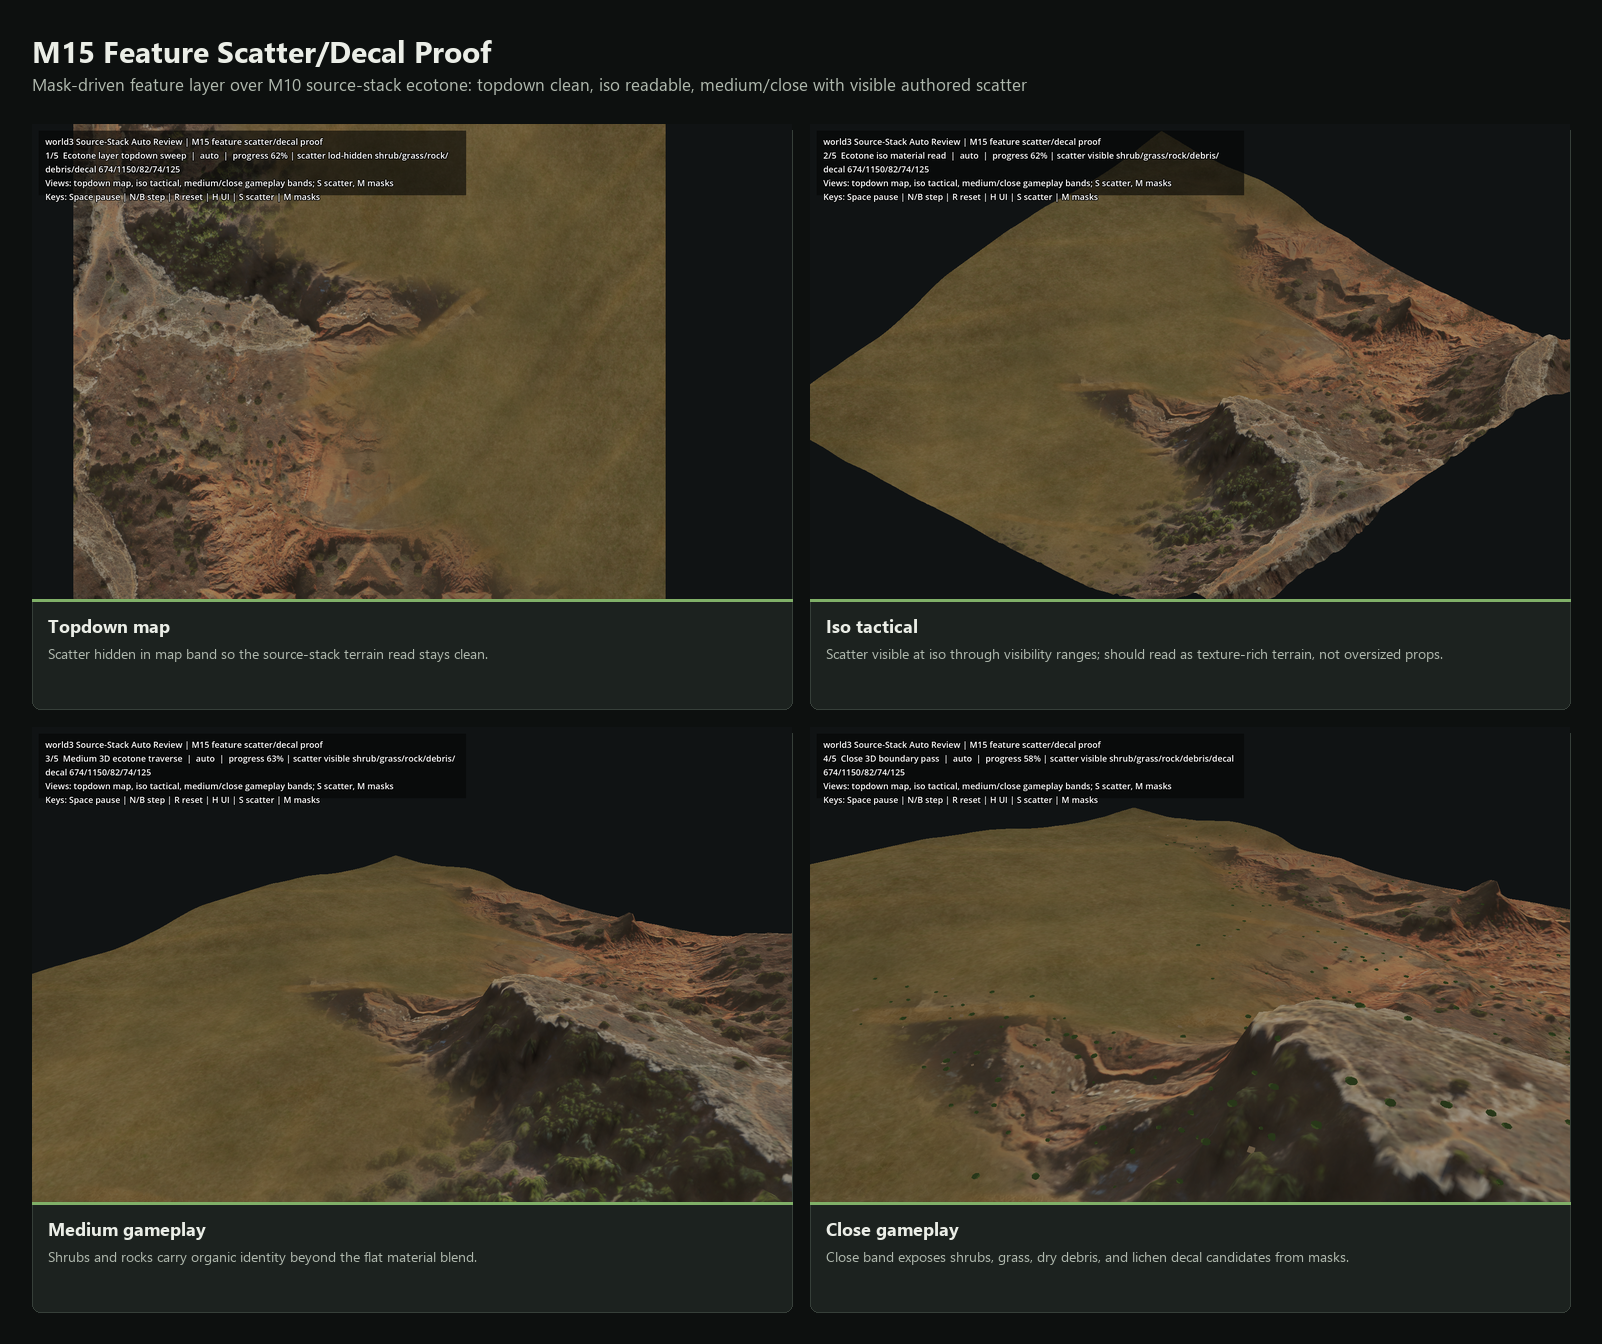
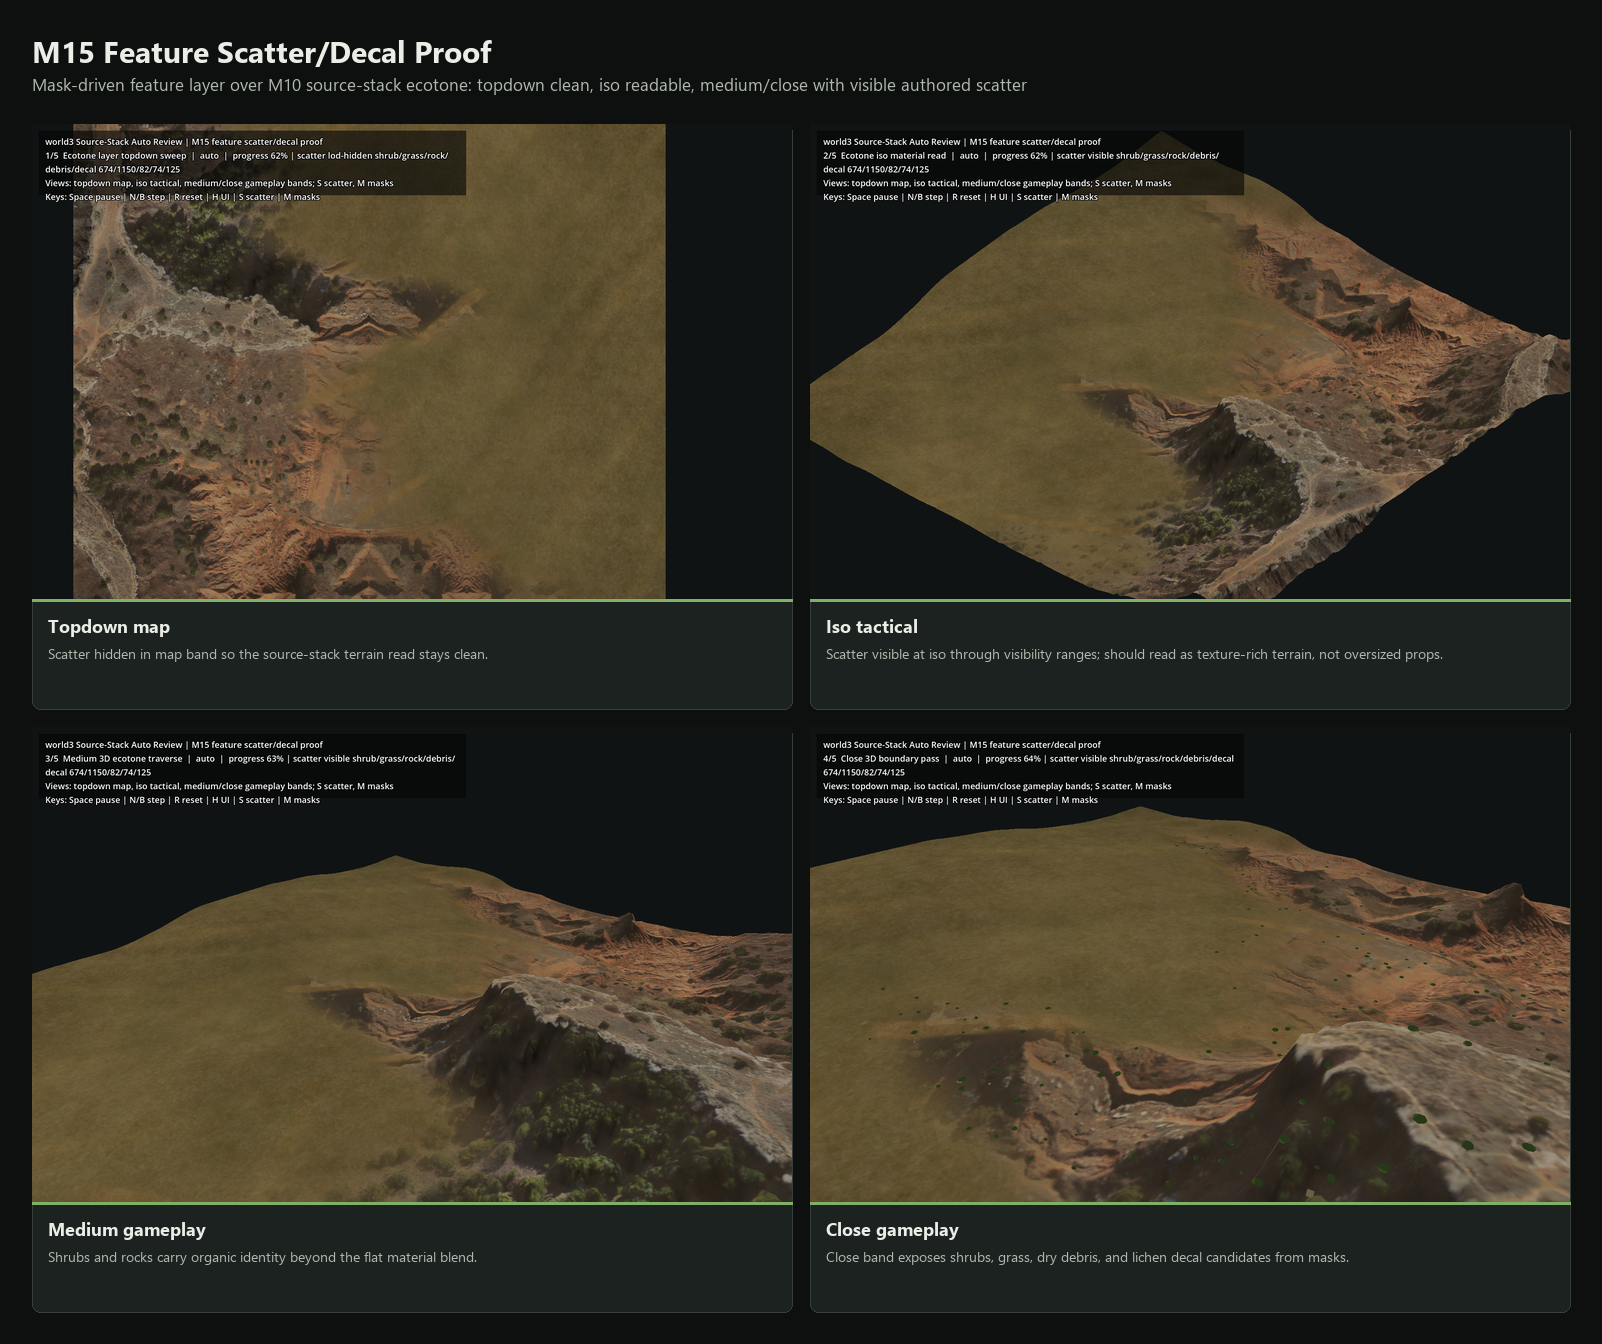
world3: add m15 scatter policy

Changed region(s): [[0.5618, 0.625, 0.9988, 0.9062], [0.8115, 0.875, 0.8427, 0.9062], [0.7803, 0.8438, 0.8115, 0.875]]

diff --git a/world3/docs/M15_FEATURE_SCATTER_PROOF_2026_05_10.md b/world3/docs/M15_FEATURE_SCATTER_PROOF_2026_05_10.md
@@ -9,6 +9,7 @@ visibility over the accepted M10 source-stack ecotone.
 ## Files
 
 - Runtime overlay: `world3/scripts/M15FeatureScatterOverlay.gd`
+- Scatter policy: `world3/jobs/m15_feature_scatter_policy.json`
 - Tour scene: `world3/scenes/review/source_stack_m15_feature_scatter_tour.tscn`
 - Captures:
   - `world3/docs/captures/review/source_stack_m15_feature_scatter_topdown.png`
@@ -33,6 +34,10 @@ visibility over the accepted M10 source-stack ecotone.
 ## What Changed
 
 - `World3AutoReviewTour.gd` now supports `scatter_overlay_mode = "m15_production"`.
+- `M15FeatureScatterOverlay.gd` reads
+  `world3/jobs/m15_feature_scatter_policy.json` for spacing/count/visibility
+  policy so the hardcoded prototype can graduate to authored assets without
+  changing the mask contract.
 - The M15 overlay generates shrubs, dry grass, rocks, dry debris, and lichen/
   decal candidates from the masks.
 - Topdown hides scatter by default to preserve the map read.
@@ -84,7 +89,8 @@ All four capture scenes exited `0`.
 
 1. Build a small authored scatter asset library for shrubs, grass clumps, stones,
    dry sticks, leaf/debris clusters, and decal cards.
-2. Swap M15 primitive mesh factories to consume the authored asset library.
+2. Swap M15 primitive mesh factories to consume the authored asset library while
+   preserving `m15_feature_scatter_policy.json`.
 3. Repeat the same capture sheet and compare prototype primitives versus authored
    assets.
 4. Port the same scatter overlay to the M11 junction/four-way proof once the M10

diff --git a/world3/docs/PLAN.md b/world3/docs/PLAN.md
@@ -395,10 +395,10 @@ mask-driven shrubs, dry grass, rocks, dry debris, and lichen/decal candidates on
 top of the M10 ecotone source stack. The review scene is
 `scenes/review/source_stack_m15_feature_scatter_tour.tscn`; captures are
 summarized in `docs/captures/review/source_stack_m15_feature_scatter_sheet.png`.
-This proves the placement/visibility workflow, not final asset quality. The
-next M15 refinement is to swap the procedural review primitives for authored
-scatter library assets while keeping the same masks and gameplay-band LOD
-contract.
+The explicit runtime policy is `jobs/m15_feature_scatter_policy.json`. This
+proves the placement/visibility workflow, not final asset quality. The next M15
+refinement is to swap the procedural review primitives for authored scatter
+library assets while keeping the same masks and gameplay-band LOD contract.
 
 2026-05-10 iso renderer note: M16 now includes a source-stack iso impostor
 sidecar ladder. The first rung is a cached 2D iso card from the M12 runtime

diff --git a/world3/docs/WORKFLOW.md b/world3/docs/WORKFLOW.md
@@ -759,8 +759,11 @@ That scene displays the M12 runtime iso bake without live terrain meshes or a
 3D/iso/topdown validation.
 
 M15 scatter/decal workflow starts from the same source-stack masks used by M10/
-M11 instead of hand placing review props. `World3AutoReviewTour.gd` can select
-the M15 overlay with `scatter_overlay_mode = "m15_production"`:
+M11 instead of hand placing review props. The runtime policy lives at
+`world3/jobs/m15_feature_scatter_policy.json`; it records per-feature spacing,
+max count, visibility range, source mask, and the future authored-asset target.
+`World3AutoReviewTour.gd` can select the M15 overlay with
+`scatter_overlay_mode = "m15_production"`:
 
 ```powershell
 & 'C:/Godot/Godot_v4.5-stable_win64.exe' --path 'D:/assets/world3' --headless --editor --import

diff --git a/world3/docs/M13_M18_POST_PARITY_ROADMAP_2026_05_10.md b/world3/docs/M13_M18_POST_PARITY_ROADMAP_2026_05_10.md
@@ -88,6 +88,7 @@ Current evidence:
 
 - First pass: `source_stack_m15_feature_scatter_tour.tscn` and
   `M15FeatureScatterOverlay.gd`.
+- Runtime policy: `jobs/m15_feature_scatter_policy.json`.
 - Inputs: M10 ecotone masks (`shrub_carryover`, `dry_grass_density`,
   `rock_cluster`, `soil_exposure`, `wash_line`, `no_scatter`).
 - Capture sheet:
